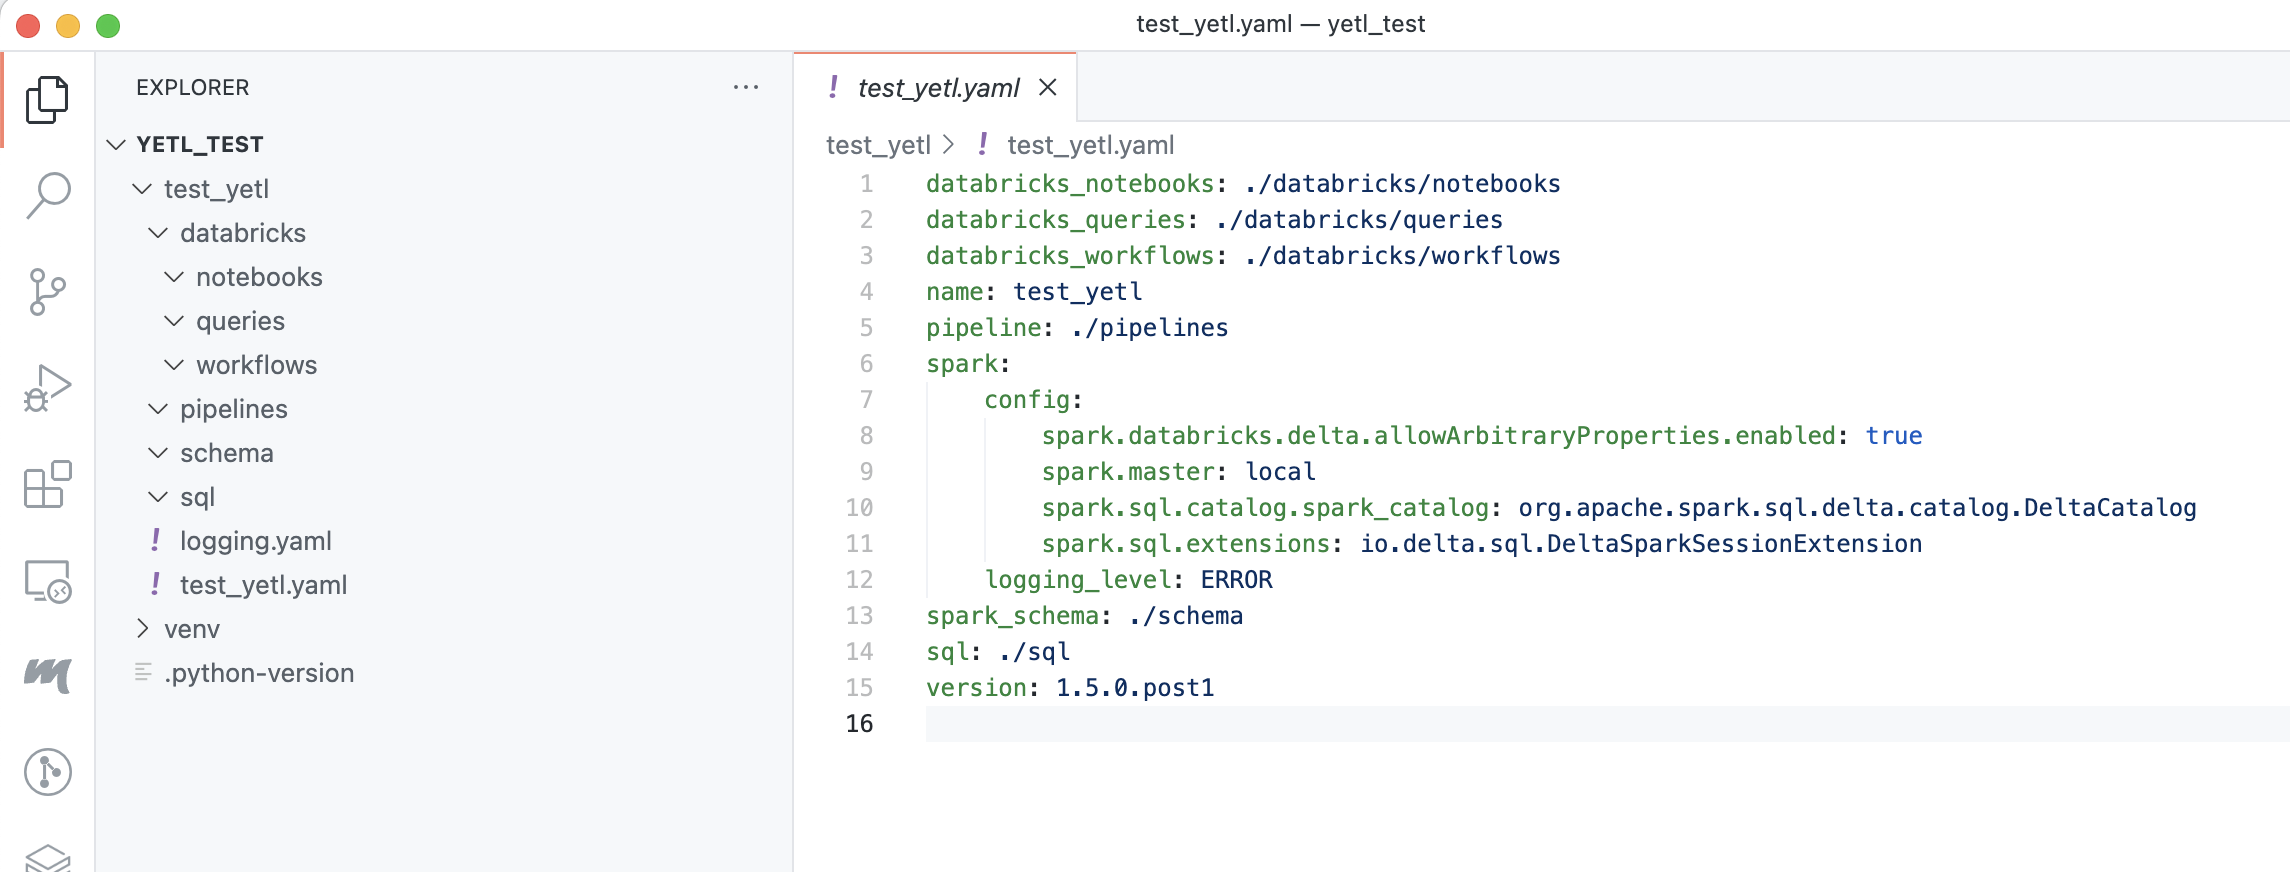
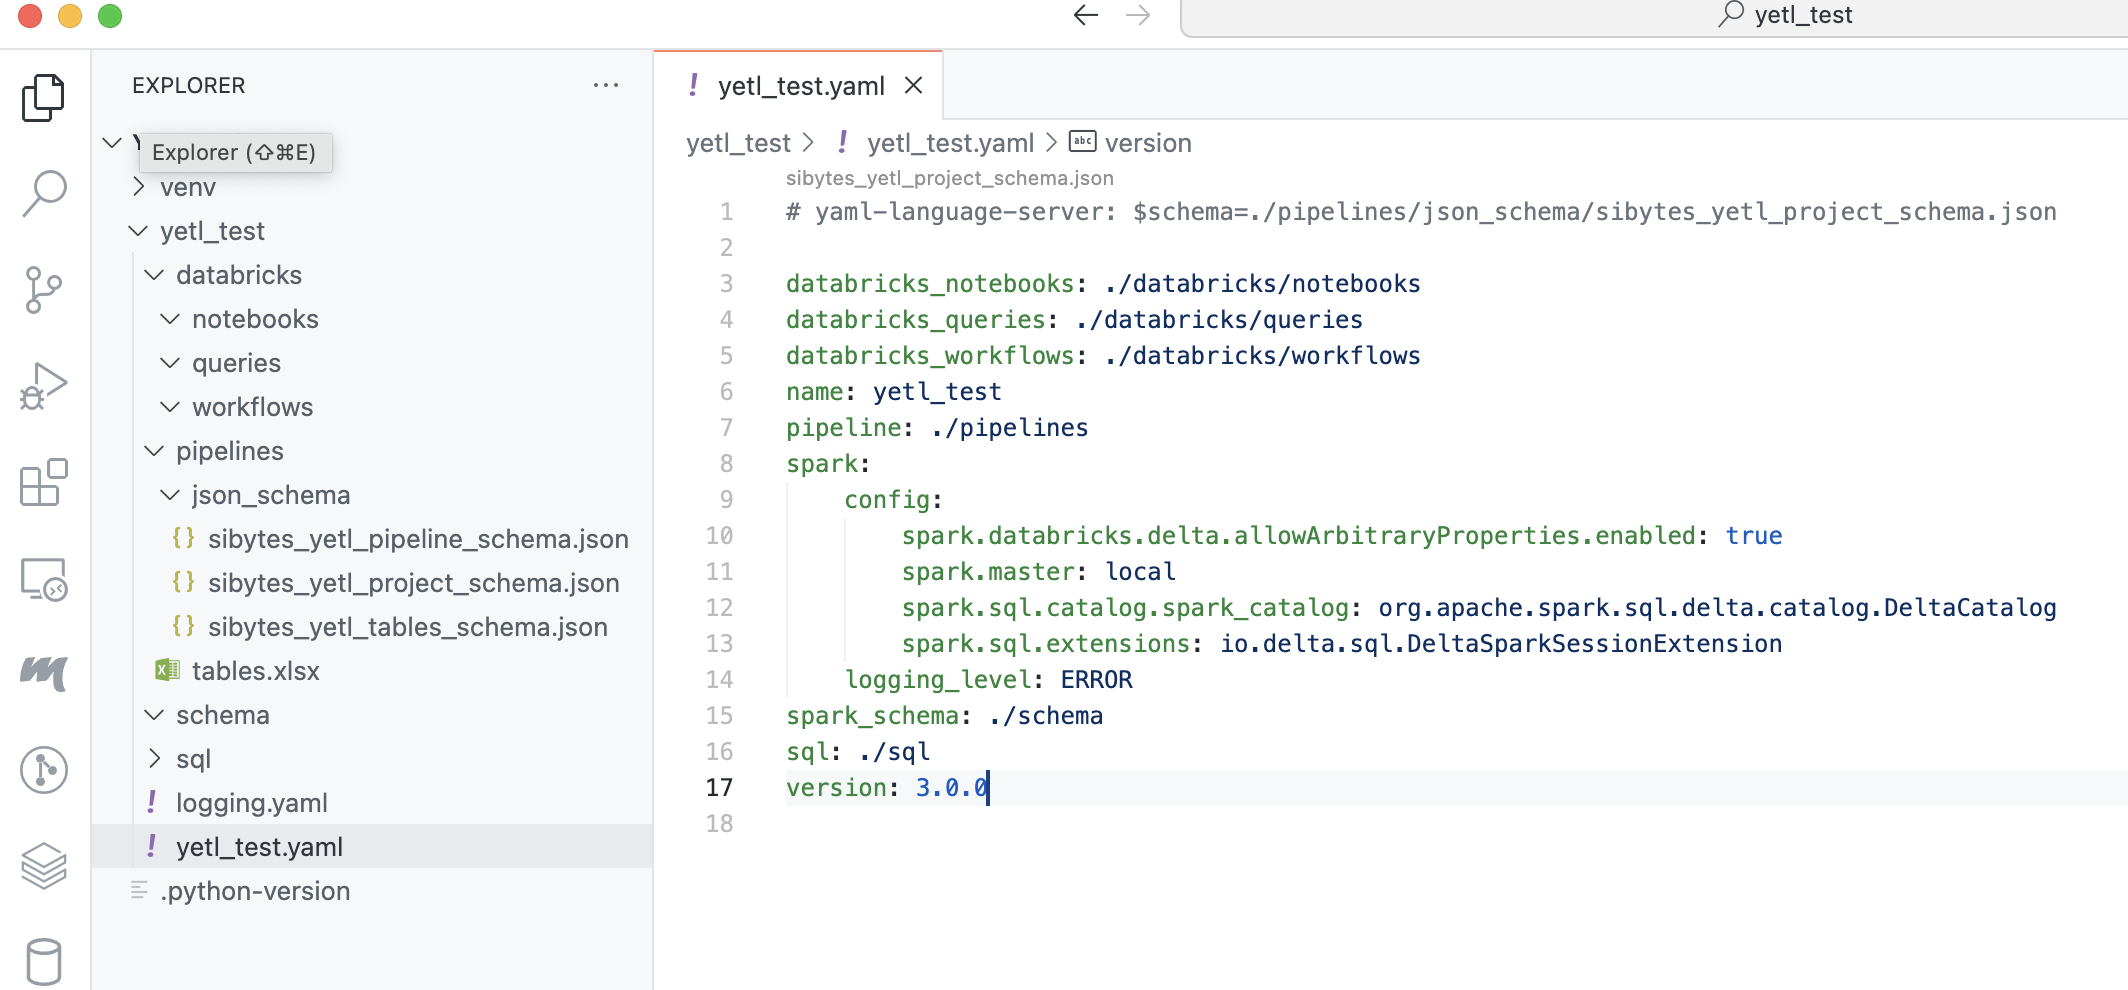
version 3 additions

diff --git a/docs/project.md b/docs/project.md
@@ -33,13 +33,18 @@ This will create:
 
 - logging configuration file `logging.yaml`
 - yetl project configuration file `yetl_test.yaml` project configuration file.
+- Excel template `tables.xlsx` to curate tables names and properties that you want to load, this can be built into a configuration `tables.yaml` with `python -m yetl import-tables`
+- `json-schema` contains json schema that you can reference and use redhat's yaml plugin when crafting configuration to get intellisense and validation. There are schemas for:
+    - `./pipelines/project.yaml`
+    - `./pipelines/tables.yaml`
+    - `./pipelines/<my_pipelines>.yaml`
 - directory structure to build pipelines
 
 ![yetl init project structure](./assets/yetl_init_project.png)
 
 
 - databricks - will store databricks workflows, notebooks, etc that will be deployed to databricks.
-- pipelines - will sore yetl configuration for the data pipelines.
+- pipelines - will store yetl configuration for the data pipelines.
 - sql - if you choose to define some tables using SQL explicitly and have yetl create those tables then the SQL files will go in here.
 - schema - will hold the spark schema's in yaml for the landing data files when we autogenerate the schema's
 
@@ -79,9 +84,9 @@ Sometimes there are requirements to explicitly create tables using SQL DDL state
 
 For example if you're loading a fan in pattern where multiple source tables are loading into the same destination table in parallel you cannot create the schema from the datafeed on the fly, either with or without the merge schema option. This is because delta tables are optimistically isolated and attempting the change the schema in multiple process will mostly likely cause a [conflict](https://docs.delta.io/latest/concurrency-control.html#metadatachangedexception). This is common pattern for audit tracking tables when loading bronze and silver tables (raw and base stages respectively)
 
-You may also just find it more practical to manage table creation by explicitly declaring create table SQL statements. There is a feature in the road map to automatically snyc the table schema when changes are made, although that currently is not implemented.
+You may also just find it more practical to manage table creation by explicitly declaring create table SQL statements. You can also use this feature to create views.
 
-In order to explicitly define tables using SQL:
+In order to explicitly define tables or views using SQL:
 
 1. Create a folder in the `sql` directory that is the database name e.g. `my_database`
 2. Create a .sql file in the folder called the name of the table e.g. `my_table.sql`
@@ -95,7 +100,7 @@ e.g.
 
 For [example](https://github.com/sibytes/databricks-patterns/blob/main/header_footer/sql/yetl_control_header_footer/raw_audit.sql), in this project we use this feature to create an audit tracking table for loading a ronze (raw) tables called `yetl_control_header_footer.raw_audit.sql`. 
 
-Note that if we want to declare the table unmananged and provide an explicit location we can do using the jinja variable `{{location}}` which is defined in the pipeline configuration. See the SQL  documentation for full details and complete list of jinja variables supported.
+Note that if we want to declare the table unmanaged and provide an explicit location we can do using the jinja variable `{{location}}` which is defined in the pipeline configuration. See the SQL  documentation for full details and complete list of jinja variables supported.
 
 
 ## Pipeline
@@ -111,24 +116,32 @@ A lot of thought has gone into this design to make configuration creation and ma
 
 This configuration file contains the information of **WHAT** the database tables and files are that we want to load. What we mean by that, is that it's at the grain of the table and therefore each table can be configured differently if required. For example each table has it's own name. It doesn't contain any configuration of how the table is loaded.
 
-One table definition file is allowed per project. Each file can hold definitions for any number of tables for databases at the following data stages. Database table type can be Read (spark read api for various formats) or DeltaLake:
+One table definition file is allowed per project. Each file can hold definitions for any number of tables for databases at the following data stages. Database table type can be `read` (spark read api for various formats) or `delta_lake`:
 
-- audit_control
-- landing
-- raw (bronze)
-- base (silver)
-- curated (gold)
+- `audit_control` - `delta_lake`
+- `source` - `read` or `delta-lake`
+- `landing` - `read`
+- `raw` (bronze) - `delta-lake`
+- `base` (silver) - `delta-lake`
+- `curated` (gold) - `delta-lake`
 
-Typically Read table types would be used in landing and DeltaLake tables for everything else.
+Typically `read` table types would be used in `landing` and `delta-lake` tables for everything else. `source` may not normally be required for Databricks pipelines since data will be landed using some other cross domain data orchestration tool e.g. Azure Data Factory. However yetl does support `source` for `read` and `delta-lake` tables types it can be usefull when:
 
-It is therefore oppinionated about the basic levels that should be implemented in a data warehouse in terms of stages and follows the medallion lakehouse arhitecture. It's rigidity starts and ends there however; you can put what ever tables you want in any layer, in any datbase with dependencies entirely of your own choosing.
+- data doesn't need to be landed and is available from some via a spark source
+- migrating tables from an older deltalake into a new architecute e.g. Unity Catalog migration
+- landing data directly from api's
+
+It is therefore opinionated about the basic levels that should be implemented in terms of stages and follows the medallion lakehouse arhitecture. It's rigidity starts and ends there however; you can put what ever tables you want in any layer, in any datbase with dependencies entirely of your own choosing.
 
 [tables.yaml example](https://github.com/sibytes/databricks-patterns/blob/main/ad_works_lt/pipelines/tables.yaml)
 
 By far the biggest hurdle is defining the table configuration. To rememedy this the yetl CLI tool has command to convert an Excel document into the required yaml format. Curating this information in Excel is far more user friendly than a yaml document for large numbers of tables. See the pipeline documentation for full details.
 
-[tables.xlsx example](https://github.com/sibytes/databricks-patterns/blob/main/ad_works_lt/pipelines/tables.xlsx)
+```sh
+python -m yetl import-tables ./pipelines/tables.xlsx ./pipelines/tables.yaml
+```
 
+[tables.xlsx](https://github.com/sibytes/databricks-patterns/blob/main/ad_works_lt/pipelines/tables.xlsx) -> [tables.yaml](https://github.com/sibytes/databricks-patterns/blob/main/ad_works_lt/pipelines/tables.yaml)
 
 ### Pipeline - The How!
 
@@ -137,6 +150,8 @@ This configuration file contains pipeline configuration properties that describe
 An example use case of this might be to batch load a large migration dataset; then turn on autoloader and event load incrementals from that position onwards.
 
 [batch.yaml pipeline example](https://github.com/sibytes/databricks-patterns/blob/main/ad_works_lt/pipelines/batch.yaml)
+
+## Summary
 
 So what does yetl do that provides value, since all we have is a bunch of configuration files:
 
@@ -147,7 +162,7 @@ So what does yetl do that provides value, since all we have is a bunch of config
 
 ### Configuration Stitching
 
-It stitches the table and pipeline data together using a minimal python idioms and provides easy access to the table collections and pipeline properties. Some properties fall on a gray line in the sense that sometimes they are the same for all tables but on specific occaisions you might want them to be different. For e.g.. deltalake properties. You can define them in the pipeline doc but override them if you want on specific tables.
+It stitches the table and pipeline data together using a minimal python idioms and provides easy access to the table collections and pipeline properties. Some properties fall on a gray line in the sense that sometimes they are the same for all tables but on specific occaisions you might want them to be different. For example deltalake properties. You can define them in the pipeline doc but override them if you want on specific tables.
 
 ### Jinja Rendering
 
